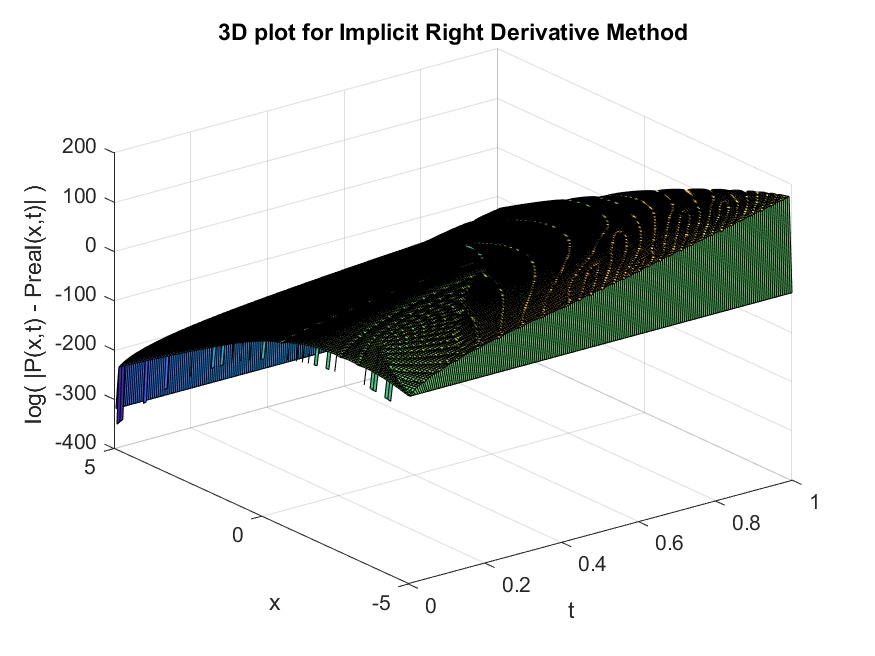
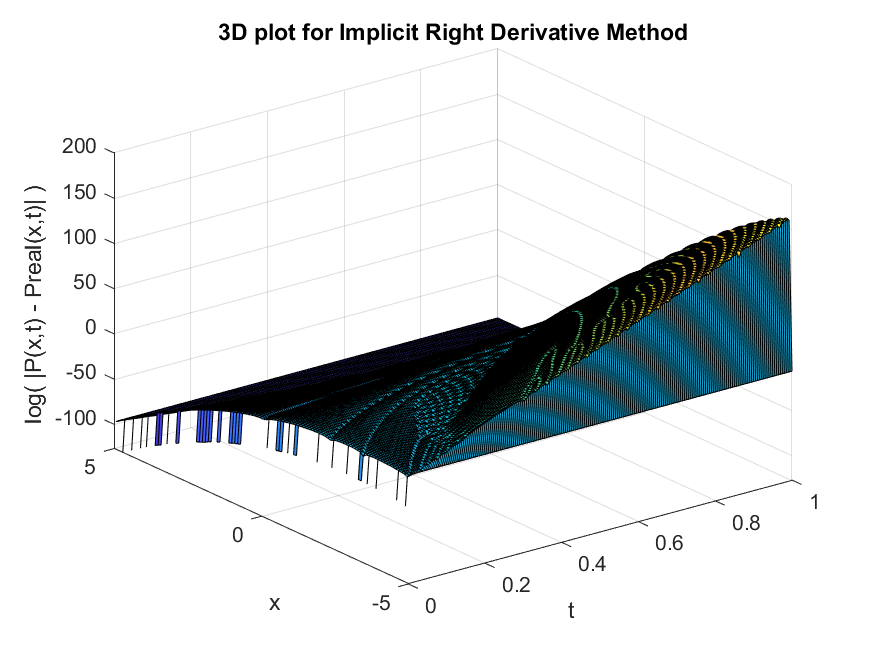
messed up, will begin new branch to get back what I had

diff --git a/fn_KolmogForwEqn.m b/fn_KolmogForwEqn.m
@@ -31,10 +31,10 @@ function [P] = fn_KolmogForwEqn(xx,tt,options, theta, sigma, xbar, p0, pN, type,
                 deltat = t_grid(t) - t_grid(t-1);
                 for ii = 2:(n-1)
                     deltaxd = x_grid(ii+1) - x_grid(ii-1);
-                    deltax =  x_grid(ii+1) - x_grid(ii);
+                    deltax =  x_grid(ii) - x_grid(ii-1);
                     pstatic = theta *P(ii,t-1);
                     pde_firstDeriv = theta*( x_grid(ii) - xbar)*(P(ii+1,t-1)-P(ii-1,t-1))/(deltaxd);
-                    pde_secondDeriv = sigma^2/2*(P(ii+1,t-1)+P(ii-1,t-1)-2*P(ii,t-1))/(deltax)^2;
+                    pde_secondDeriv = sigma^2/2*(P(ii+1,t-1)+P(ii-1,t-1)-2*P(ii,t-1))/deltax^2;
                     pde_it = pstatic + pde_firstDeriv + pde_secondDeriv;
                     P(ii,t) = P(ii,t-1) + deltat*(pde_it);
                 end
@@ -45,7 +45,7 @@ function [P] = fn_KolmogForwEqn(xx,tt,options, theta, sigma, xbar, p0, pN, type,
                 deltat = t_grid(t) - t_grid(t-1);
                 for ii = 2:(n-1)
                     deltaxd = x_grid(ii) - x_grid(ii-1);
-                    deltax =  x_grid(ii+1) - x_grid(ii);
+                    deltax =  x_grid(ii) - x_grid(ii-1);
                     pstatic = theta *P(ii,t-1);
                     pde_firstDeriv = theta*( x_grid(ii) - xbar)*(P(ii,t-1)-P(ii-1,t-1))/(deltaxd);
                     pde_secondDeriv = sigma^2/2*(P(ii+1,t-1)+P(ii-1,t-1)-2*P(ii,t-1))/(deltax)^2;
@@ -59,7 +59,7 @@ function [P] = fn_KolmogForwEqn(xx,tt,options, theta, sigma, xbar, p0, pN, type,
                 deltat = t_grid(t) - t_grid(t-1);
                 for ii = 2:(n-1)
                     deltaxd = x_grid(ii+1) - x_grid(ii);
-                    deltax =  x_grid(ii+1) - x_grid(ii);
+                    deltax =  x_grid(ii) - x_grid(ii-1);
                     pstatic = theta *P(ii,t-1);
                     pde_firstDeriv = theta*( x_grid(ii) - xbar)*(P(ii+1,t-1)-P(ii,t-1))/(deltaxd);
                     pde_secondDeriv = sigma^2/2*(P(ii+1,t-1)+P(ii-1,t-1)-2*P(ii,t-1))/(deltax)^2;
@@ -83,7 +83,7 @@ function [P] = fn_KolmogForwEqn(xx,tt,options, theta, sigma, xbar, p0, pN, type,
                         derivLeft = (P(ii,t-1)-P(ii-1,t-1))/(deltax);
                         pde_firstDeriv = coeffOfDx*derivLeft;
                     end
-                    deltax =  x_grid(ii+1) - x_grid(ii);
+                    deltax =  x_grid(ii) - x_grid(ii-1);
                     pde_secondDeriv = sigma^2/2*(P(ii+1,t-1)+P(ii-1,t-1)-2*P(ii,t-1))/(deltax)^2;
                     pde_it = pstatic + pde_firstDeriv + pde_secondDeriv;
                     P(ii,t) = P(ii,t-1) + deltat*(pde_it);
@@ -101,17 +101,17 @@ function [P] = fn_KolmogForwEqn(xx,tt,options, theta, sigma, xbar, p0, pN, type,
                 A = zeros(n-2);
                 b = zeros(n-2,1);
                 deltax1d = x_grid(3)-x_grid(1);
-                deltax1 = x_grid(3) - x_grid(2);
+                deltax1 = x_grid(2) - x_grid(1);
                 A(1,1) = (1+ deltat*sigma^2/deltax1^2 -deltat*theta);
                 A(1,2) = -deltat*theta*(xx(2,t)-xbar)/deltax1d - deltat*sigma^2/(2*deltax1^2);
                 deltaxnd = x_grid(n)-x_grid(n-2);
-                deltaxn = x_grid(n)-x_grid(n-1);
+                deltaxn = x_grid(n-1)-x_grid(n-2);
                 A(n-2,n-3) = deltat*theta*(xx(n-1,t)-xbar)/deltaxnd - deltat*sigma^2/(2*deltaxn^2);
                 A(n-2,n-2) = (1+ deltat*sigma^2/deltaxn^2 -deltat*theta);
                 b(1) = P(2,t-1) + P(1,t)*(-deltat*theta*(xx(2,t)-xbar)/deltax1d+deltat*sigma^2/(2*deltax1^2));
                 b(n-2) = P(n-1,t-1) + P(n,t)*(deltat*sigma^2/(2*deltaxn^2) + deltat*theta*(xx(n-1,t)-xbar)/deltaxnd);
                 for ii = 2:(n-3)
-                    deltaxid = x_grid(ii+1) - x_grid(ii-1);
+                    deltaxid = x_grid(ii+2) - x_grid(ii);
                     deltaxi = x_grid(ii+1) - x_grid(ii);
                     A(ii,ii-1) = deltat*theta*(xx(ii+1,t)-xbar)/deltaxid - deltat*sigma^2/(2*deltaxi^2);
                     A(ii,ii) = (1+ deltat*sigma^2/deltaxi^2 -deltat*theta);
@@ -128,17 +128,17 @@ function [P] = fn_KolmogForwEqn(xx,tt,options, theta, sigma, xbar, p0, pN, type,
                 A = zeros(n-2);
                 b = zeros(n-2,1);
                 deltax1d = x_grid(2)-x_grid(1);
-                deltax1 = x_grid(3)-x_grid(2);
+                deltax1 = x_grid(2)-x_grid(1);
                 A(1,1) = (1-deltat*theta*(xx(2,t)-xbar)/deltax1d + deltat*sigma^2/deltax1^2 -deltat*theta);
                 A(1,2) = - deltat*sigma^2/(2*deltax1^2);
                 deltaxnd = x_grid(n-1)-x_grid(n-2);
-                deltaxn = x_grid(n)-x_grid(n-1);
+                deltaxn = x_grid(n-1)-x_grid(n-2);
                 A(n-2,n-3) = deltat*theta*(xx(n-1,t)-xbar)/deltaxnd - deltat*sigma^2/(2*deltaxn^2);
                 A(n-2,n-2) = (1-deltat*theta*(xx(n-1,t)-xbar)/deltaxnd + deltat*sigma^2/deltaxn^2 -deltat*theta);
                 b(1) = P(2,t-1) + P(1,t)*(-deltat*theta*(xx(2,t)-xbar)/deltax1d+deltat*sigma^2/(2*deltax1^2));
                 b(n-2) = P(n-1,t-1) + P(n,t)*(deltat*sigma^2/(2*deltaxn^2));
                 for ii = 2:(n-3)
-                    deltaxid = x_grid(ii) - x_grid(ii-1);
+                    deltaxid = x_grid(ii+1) - x_grid(ii);
                     deltaxi = x_grid(ii+1) - x_grid(ii);
                     A(ii,ii-1) = deltat*theta*(xx(ii+1,t)-xbar)/deltaxid - deltat*sigma^2/(2*deltaxi^2);
                     A(ii,ii) = (1-deltat*theta*(xx(ii+1,t)-xbar)/deltaxid + deltat*sigma^2/deltaxi^2 -deltat*theta);
@@ -155,18 +155,18 @@ function [P] = fn_KolmogForwEqn(xx,tt,options, theta, sigma, xbar, p0, pN, type,
                 A = zeros(n-2);
                 b = zeros(n-2,1);
                 deltax1d = x_grid(3)-x_grid(2);
-                deltax1 = x_grid(3)-x_grid(2);
+                deltax1 = x_grid(2)-x_grid(1);
                 A(1,1) = (1 +deltat*theta*(xx(2,t)-xbar)/deltax1d + deltat*sigma^2/deltax1^2 -deltat*theta);
                 A(1,2) = - deltat*sigma^2/(2*deltax1^2)-deltat*theta*(xx(2,t)-xbar)/deltax1d;
                 deltaxnd = x_grid(n)-x_grid(n-1);
-                deltaxn = x_grid(n)-x_grid(n-1);
+                deltaxn = x_grid(n-1)-x_grid(n-2);
                 A(n-2,n-3) = - deltat*sigma^2/(2*deltaxn^2);
                 A(n-2,n-2) = (1 +deltat*theta*(xx(n-1,t)-xbar)/deltaxnd + deltat*sigma^2/deltaxn^2 -deltat*theta);
                 b(1) = P(2,t-1) + P(1,t)*(deltat*sigma^2/(2*deltax1^2));
                 b(n-2) = P(n-1,t-1) + P(n,t)*(deltat*sigma^2/(2*deltaxn^2)+deltat*theta*(xx(n-1,t)-xbar)/deltaxnd);
                 for ii = 2:(n-3)
-                    deltaxid = x_grid(ii+1) - x_grid(ii);
-                    deltaxi = x_grid(ii+1) - x_grid(ii);
+                    deltaxid = x_grid(ii+2) - x_grid(ii+1);
+                    deltaxi = x_grid(ii+1) - x_grid(ii+0);
                     A(ii,ii-1) = - deltat*sigma^2/(2*deltaxi^2);
                     A(ii,ii) = (1 + deltat*theta*(xx(ii+1,t)-xbar)/deltaxid + deltat*sigma^2/deltaxi^2 -deltat*theta);
                     A(ii,ii+1) = - deltat*sigma^2/(2*deltaxi^2)-deltat*theta*(xx(ii+1,t)-xbar)/deltaxid;
@@ -181,7 +181,7 @@ function [P] = fn_KolmogForwEqn(xx,tt,options, theta, sigma, xbar, p0, pN, type,
                 deltat = t_grid(t) - t_grid(t-1);
                 A = zeros(n-2);
                 b = zeros(n-2,1);
-                deltax1 = x_grid(3)-x_grid(2);
+                deltax1 = x_grid(2)-x_grid(1);
                 coeffOfDx = deltat*theta*(xx(2,t)-xbar);
                 if coeffOfDx >= 0
                     %Use right
@@ -196,7 +196,7 @@ function [P] = fn_KolmogForwEqn(xx,tt,options, theta, sigma, xbar, p0, pN, type,
                     A(1,2) = - deltat*sigma^2/(2*deltax1^2);
                     b(1) = P(2,t-1) + P(1,t)*(-coeffOfDx/deltax1d+deltat*sigma^2/(2*deltax1^2));
                 end
-                deltaxn = x_grid(n)-x_grid(n-1);
+                deltaxn = x_grid(n-1)-x_grid(n-2);
                 coeffOfDx = deltat*theta*(xx(n-1,t)-xbar);
                 if coeffOfDx >= 0
                     deltaxnd = x_grid(n)-x_grid(n-1);
@@ -215,16 +215,16 @@ function [P] = fn_KolmogForwEqn(xx,tt,options, theta, sigma, xbar, p0, pN, type,
                     coeffOfDx = deltat*theta*(xx(ii+1,t)-xbar);
                     if coeffOfDx >= 0
                         %Use right
-                        deltaxid = x_grid(ii+1) - x_grid(ii);
-                        deltaxi = x_grid(ii+1) - x_grid(ii);
+                        deltaxid = x_grid(ii+2) - x_grid(ii+1);
+                        deltaxi = x_grid(ii+1) - x_grid(ii+0);
                         A(ii,ii-1) = - deltat*sigma^2/(2*deltaxi^2);
                         A(ii,ii) = (1 + coeffOfDx/deltaxid + deltat*sigma^2/deltaxi^2 -deltat*theta);
                         A(ii,ii+1) = - deltat*sigma^2/(2*deltaxi^2)-coeffOfDx/deltaxid;
                         b(ii) = P(ii+1,t-1);
                     else
                         %use left
-                        deltaxid = x_grid(ii) - x_grid(ii-1);
-                        deltaxi = x_grid(ii+1) - x_grid(ii);
+                        deltaxid = x_grid(ii+1) - x_grid(ii);
+                        deltaxi = x_grid(ii+1) - x_grid(ii+0);
                         A(ii,ii-1) = coeffOfDx/deltaxid - deltat*sigma^2/(2*deltaxi^2);
                         A(ii,ii) = (1-coeffOfDx/deltaxid + deltat*sigma^2/deltaxi^2 -deltat*theta);
                         A(ii,ii+1) = - deltat*sigma^2/(2*deltaxi^2);

diff --git a/Ps02_ex01_v04_win.m b/Ps02_ex01_v04_win.m
@@ -25,7 +25,7 @@ xmax = 5;
 %     xnext = xnext + xstep;
 % end
 % x_grid = [x_grid xmax];
-xstep = 0.1; %0.1, 0.05   
+xstep = 0.05; %0.1, 0.05   
 x_grid = xmin:xstep:xmax;
 n = length(x_grid);
 tmin = 0;
@@ -40,7 +40,7 @@ theta =3;  %0 = 0. 001,   3, 0.5
 sigma = 0.33; %1, 0.33,   0
 xbar = 0;
 m0 = -3;  %0, -3,  0
-v0 = 0.1; %0.1  0.33,  0.1
+v0 = 0.33; %0.1  0.33,  0.1
 p0 = normpdf(x_grid,m0,sqrt(v0));
 pN = p0;
 if theta == 0
@@ -82,8 +82,6 @@ for derivtype = 1:4
     %display(['Running matlabSolver with ',word, ' Derivative...'])
     %p_matlabSolver = fn_KolmogForwEqn(xx,tt,options, theta, sigma, xbar, p0, pN, 3,1);
     % toc
-%end
-
 % Plot of P(x,t=columna) for explicit, implicit, et.al.
     counterFig = 0;
 %for derivtype = 1:4
@@ -118,7 +116,8 @@ for derivtype = 1:4
     plotName = ['plots\ex',exercise,'_P(x,t=15)',num2str(derivtype)];
     print(plotName,'-dpng')
 %end
-
+end 
+%%
 %% 3D plot log_error of  |p_explicit - preal|
 %counterFig = 0;
 %for derivtype = 1:4
@@ -232,6 +231,6 @@ for derivtype = 1:4
     legend({'Explicit Euler','Implicit Euler'},'Location','Southeast')
     print(plotName,'-dpng')
     close all;
-end
+%end
 
 
